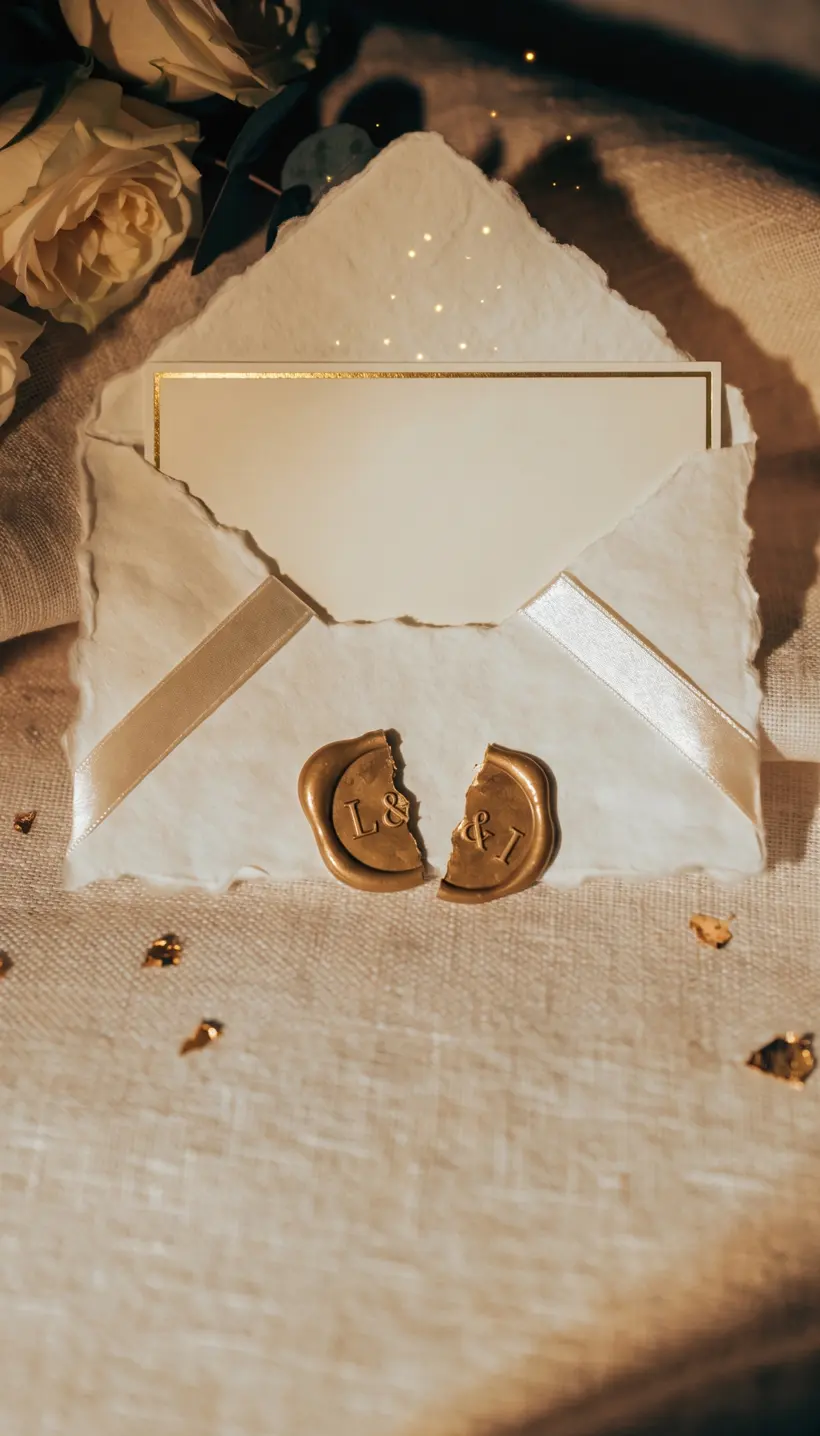
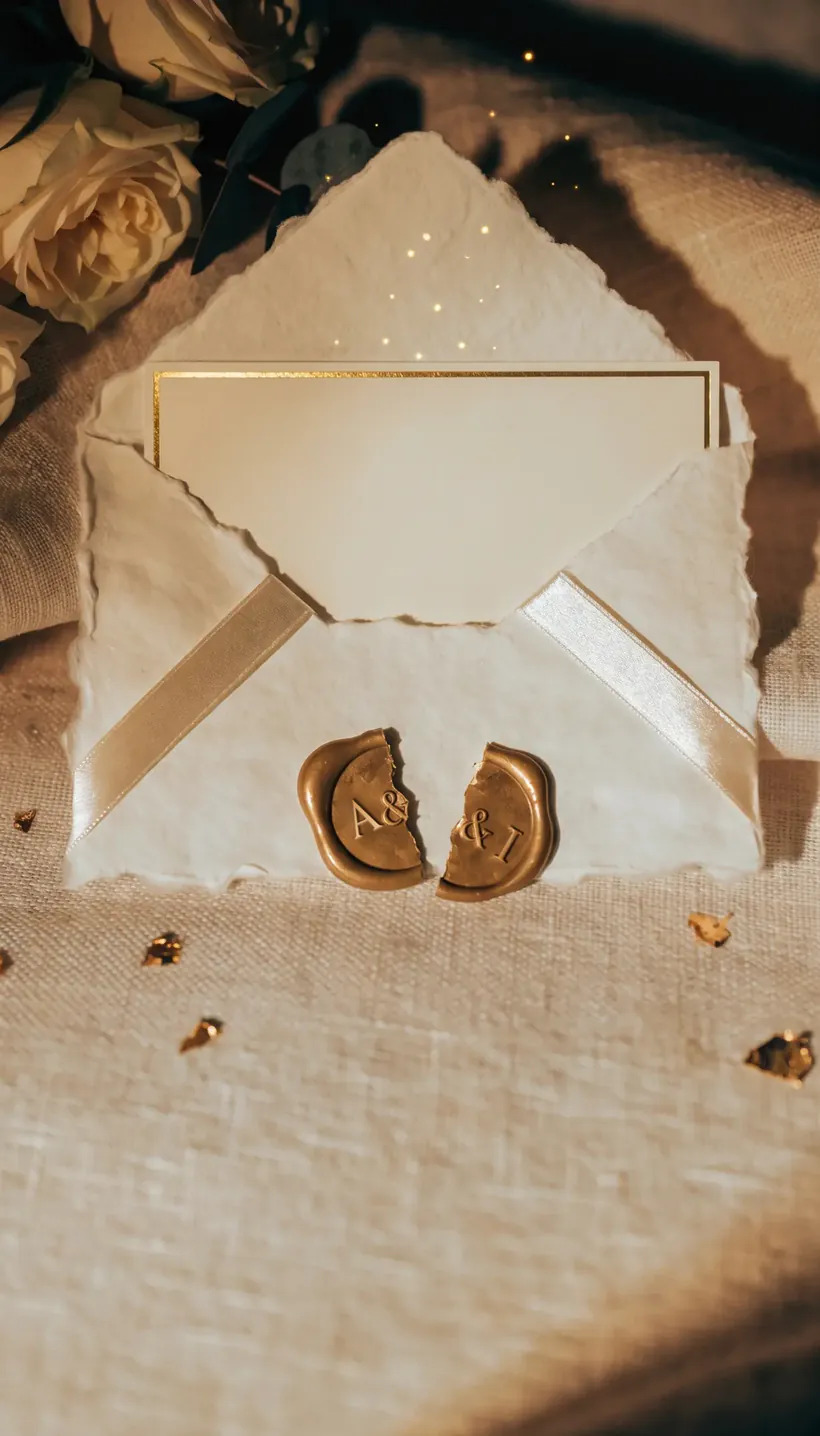
fix(boda-luis-isis): el novio es Angel, tambien en el lacre y el preview
Los novios cerraron el nombre en "Angel e Isis". Antes solo la portada, el
pie y el apple-mobile-web-app-title usaban el corto; el resto decia
"Luis Angel e Isis Alondra".

- Texto: title, meta description, og:title, hero, alt de la foto, Google
  Calendar, .ics, WhatsApp del RSVP y el document.title personalizado.
- Lacre: la "L" estaba quemada en las cuatro fotos del sobre (cerrado y
  abierto, 1x y @2x). Se borro con relleno por difusion desde la cera de
  alrededor y se estampo una "A" en Cinzel 500 con el mismo relieve
  (altura de mayuscula, extrusion y filo medidos sobre la "I" real). En el
  sobre abierto va girada 26 grados y comprimida 15% en horizontal: ahi el
  lacre esta escorzado (el "&" mide 53 de alto igual que en el cerrado,
  pero 38 de ancho contra 45). Recodificado a q=80, mismo peso que antes.
- Favicons: monograma "A & I" en los tres tamanos.
- Preview de WhatsApp: og-v2.jpg decia "Luis & Isis". og-v3.jpg lo cambia
  por "Angel & Isis" en Great Vibes 107.8px, el mismo cuerpo que el
  original (441x124 de tinta). Nombre nuevo a proposito: WhatsApp cachea
  el preview por URL.

El titular de Banco Azteca NO cambia: es el nombre legal de la cuenta y si
no coincide se rechaza la transferencia. Queda comentado en el JS.

diff --git a/public/boda-luis-isis/index.html b/public/boda-luis-isis/index.html
@@ -4,8 +4,8 @@
 <meta charset="UTF-8">
 <meta name="viewport" content="width=device-width, initial-scale=1.0, viewport-fit=cover">
 
-<title>Boda de Luis Angel e Isis Alondra</title>
-<meta name="description" content="Nos casamos el sábado 31 de octubre de 2026. Acompáñanos a celebrar la boda de Luis Angel e Isis Alondra en el Salón de Eventos Villa Verde.">
+<title>Boda de Angel e Isis</title>
+<meta name="description" content="Nos casamos el sábado 31 de octubre de 2026. Acompáñanos a celebrar la boda de Angel e Isis en el Salón de Eventos Villa Verde.">
 
 <!-- Privacidad: lleva nombres, direcciones y teléfono de una familia real. -->
 <meta name="robots" content="noindex, nofollow, noarchive, nosnippet, noimageindex">
@@ -18,11 +18,11 @@
 
 <link rel="canonical" href="https://www.salondefiestasvillaverde.com/boda-luis-isis">
 <meta property="og:type" content="website">
-<meta property="og:title" content="Boda de Luis Angel e Isis Alondra">
+<meta property="og:title" content="Boda de Angel e Isis">
 <meta property="og:description" content="Sábado 31 de octubre de 2026. Acompáñanos a celebrar nuestra boda en el Salón de Eventos Villa Verde.">
 <meta property="og:locale" content="es_MX">
 <meta property="og:url" content="https://www.salondefiestasvillaverde.com/boda-luis-isis">
-<meta property="og:image" content="https://www.salondefiestasvillaverde.com/boda-luis-isis/assets/og-v2.jpg">
+<meta property="og:image" content="https://www.salondefiestasvillaverde.com/boda-luis-isis/assets/og-v3.jpg">
 <meta property="og:image:width" content="1200">
 <meta property="og:image:height" content="630">
 <meta name="twitter:card" content="summary_large_image">
@@ -1185,7 +1185,7 @@ body.bb-revealed .bb-music{ display:flex; }
     <!-- Se llena desde ?para=Familia+Pérez (ver "INVITACIÓN PERSONALIZADA" en el JS) -->
     <p class="bb-hero__guest" id="hero-invitado" hidden></p>
     <p class="bb-kicker">Nos casamos</p>
-    <h1 class="bb-hero__name">Luis Angel<span class="bb-hero__amp">&amp;</span>Isis Alondra</h1>
+    <h1 class="bb-hero__name">Angel<span class="bb-hero__amp">&amp;</span>Isis</h1>
     <p class="bb-hero__sur">Garcia Merlos &middot; Espinoza Díaz</p>
     <p class="bb-hero__age">Acompáñanos a celebrar nuestra boda</p>
     <p class="bb-hero__date">Sábado 31 &middot; Octubre &middot; 2026</p>
@@ -1216,7 +1216,7 @@ body.bb-revealed .bb-music{ display:flex; }
                srcset="/boda-luis-isis/assets/novios.webp 900w,
                        /boda-luis-isis/assets/novios@2x.webp 1400w"
                sizes="(max-width: 600px) 74vw, 330px"
-               alt="Luis Angel e Isis Alondra abrazados frente al mar"
+               alt="Angel e Isis abrazados frente al mar"
                id="retrato" width="900" height="1200" loading="lazy" decoding="async">
         </div>
       </div>
@@ -1278,7 +1278,7 @@ body.bb-revealed .bb-music{ display:flex; }
 
     <p class="bb-cal__label">Guarda la fecha</p>
     <div class="bb-cal">
-      <a class="bb-btn bb-btn--ghost" href="https://calendar.google.com/calendar/render?action=TEMPLATE&amp;text=Boda+de+Luis+Angel+e+Isis+Alondra&amp;dates=20261031T213000Z%2F20261101T050000Z&amp;details=3%3A30+PM+cita+en+la+parroquia+%C2%B7+4%3A00+PM+misa+%C2%B7+6%3A00+PM+recepci%C3%B3n+en+el+Sal%C3%B3n+de+Eventos+Villa+Verde+%28Carretera+M%C3%A9xico-Cuautla+Km+35.5%2C+Chalco%29.+Vestimenta+formal.+Invitaci%C3%B3n%3A+https%3A%2F%2Fwww.salondefiestasvillaverde.com%2Fboda-luis-isis&amp;location=Parroquia+San+Gregorio+Magno%2C+Av.+Jos%C3%A9+Mar%C3%ADa+Morelos+S%2FN%2C+San+Gregorio+Cuautzingo%2C+Chalco%2C+Estado+de+M%C3%A9xico&amp;ctz=America%2FMexico_City" target="_blank" rel="noopener noreferrer">
+      <a class="bb-btn bb-btn--ghost" href="https://calendar.google.com/calendar/render?action=TEMPLATE&amp;text=Boda+de+Angel+e+Isis&amp;dates=20261031T213000Z%2F20261101T050000Z&amp;details=3%3A30+PM+cita+en+la+parroquia+%C2%B7+4%3A00+PM+misa+%C2%B7+6%3A00+PM+recepci%C3%B3n+en+el+Sal%C3%B3n+de+Eventos+Villa+Verde+%28Carretera+M%C3%A9xico-Cuautla+Km+35.5%2C+Chalco%29.+Vestimenta+formal.+Invitaci%C3%B3n%3A+https%3A%2F%2Fwww.salondefiestasvillaverde.com%2Fboda-luis-isis&amp;location=Parroquia+San+Gregorio+Magno%2C+Av.+Jos%C3%A9+Mar%C3%ADa+Morelos+S%2FN%2C+San+Gregorio+Cuautzingo%2C+Chalco%2C+Estado+de+M%C3%A9xico&amp;ctz=America%2FMexico_City" target="_blank" rel="noopener noreferrer">
         <svg viewBox="0 0 24 24" fill="none" stroke="currentColor" stroke-width="1.8" stroke-linecap="round" stroke-linejoin="round" aria-hidden="true"><rect x="3" y="5" width="18" height="16" rx="2"/><path d="M3 10h18M8 3v4M16 3v4"/></svg>
         Google Calendar
       </a>
@@ -1523,7 +1523,7 @@ body.bb-revealed .bb-music{ display:flex; }
     <p class="bb-rsvp__deadline">Te pedimos confirmar antes del <strong>15 de octubre</strong>.</p>
 
     <a class="bb-btn bb-btn--gold bb-btn--rsvp" id="rsvp-btn"
-       href="https://wa.me/525636051127?text=%C2%A1Hola!%20Confirmo%20mi%20asistencia%20a%20la%20boda%20de%20Luis%20Angel%20e%20Isis%20Alondra%20el%20s%C3%A1bado%2031%20de%20octubre%20de%202026."
+       href="https://wa.me/525636051127?text=%C2%A1Hola!%20Confirmo%20mi%20asistencia%20a%20la%20boda%20de%20Angel%20e%20Isis%20el%20s%C3%A1bado%2031%20de%20octubre%20de%202026."
        style="margin-top:var(--bb-s5)" target="_blank" rel="noopener noreferrer">
       <svg viewBox="0 0 24 24" fill="currentColor" aria-hidden="true"><path d="M17.47 14.38c-.3-.15-1.75-.86-2.02-.96-.27-.1-.47-.15-.67.15-.2.3-.77.96-.94 1.16-.17.2-.35.22-.64.08-.3-.15-1.25-.46-2.38-1.47-.88-.78-1.47-1.75-1.65-2.05-.17-.3-.02-.46.13-.6.13-.13.3-.35.45-.52.15-.17.2-.3.3-.5.1-.2.05-.37-.02-.52-.08-.15-.67-1.61-.92-2.2-.24-.58-.48-.5-.67-.51h-.57c-.2 0-.52.07-.79.37-.27.3-1.04 1.02-1.04 2.48s1.07 2.88 1.22 3.08c.15.2 2.1 3.2 5.08 4.49.71.3 1.26.49 1.69.63.71.22 1.36.19 1.87.12.57-.09 1.75-.72 2-1.41.25-.69.25-1.28.17-1.41-.07-.13-.27-.2-.57-.35zM12 2a10 10 0 00-8.6 15.05L2 22l5.07-1.33A10 10 0 1012 2z"/></svg>
       Confirmar asistencia
@@ -1598,6 +1598,8 @@ var EVENTO = {
   // para quien lea la página sin JS.
   banco: {
     nombre:  'Banco Azteca',
+    // Nombre LEGAL de la cuenta: no sigue al resto de la invitación (que dice
+    // "Angel e Isis"). Si no coincide con el titular real, la transferencia se rechaza.
     titular: 'Luis Angel Garcia Merlos',
     cuenta:  '4027 6658 7982 8086'
   }
@@ -1648,11 +1650,11 @@ var EVENTO = {
   var btn = document.getElementById('rsvp-btn');
   if (btn) {
     var msg = '¡Hola! Somos ' + nombre + '. Confirmamos nuestra asistencia a la boda de ' +
-      'Luis Angel e Isis Alondra el sábado 31 de octubre de 2026' +
+      'Angel e Isis el sábado 31 de octubre de 2026' +
       (conPases ? ' (' + plural(pases, 'pase', 'pases') + ')' : '') + '.';
     btn.href = 'https://wa.me/' + EVENTO.telefono + '?text=' + encodeURIComponent(msg);
   }
-  document.title = 'Boda de Luis Angel e Isis Alondra \u00b7 ' + nombre;
+  document.title = 'Boda de Angel e Isis \u00b7 ' + nombre;
 })();
 
 /* ---------- CUENTA REGRESIVA ---------- */
